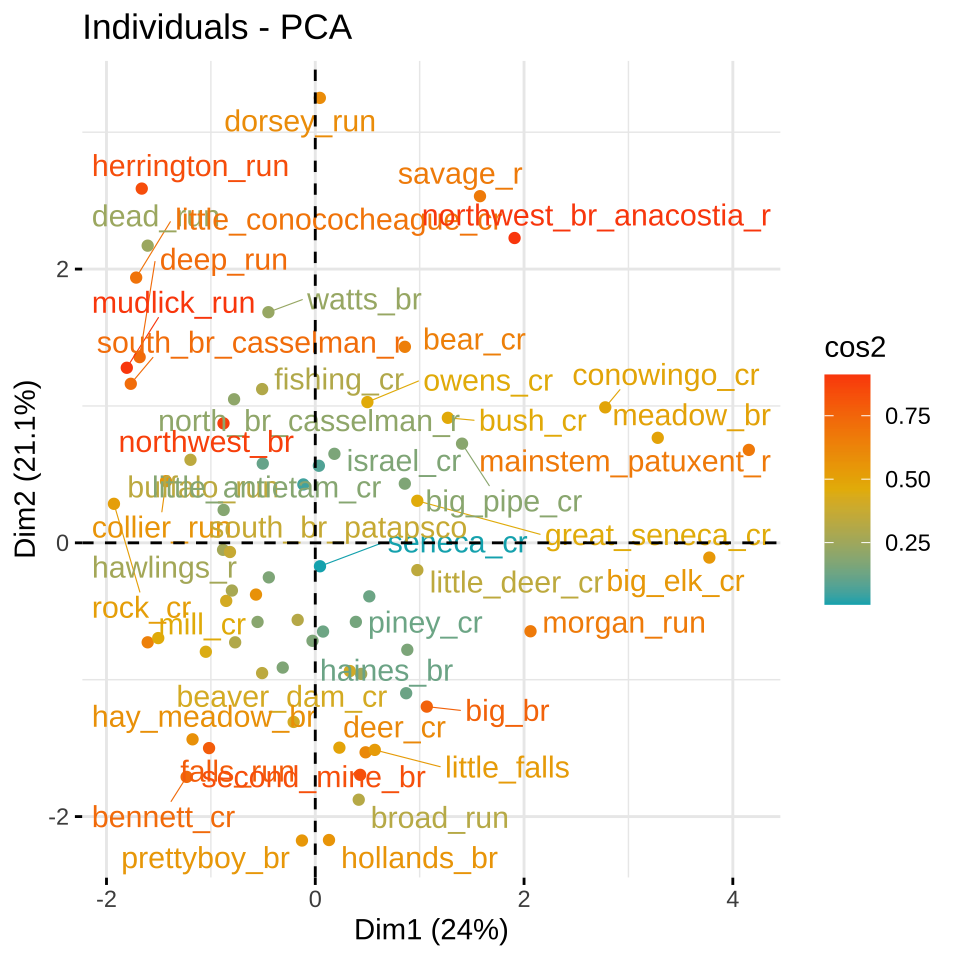
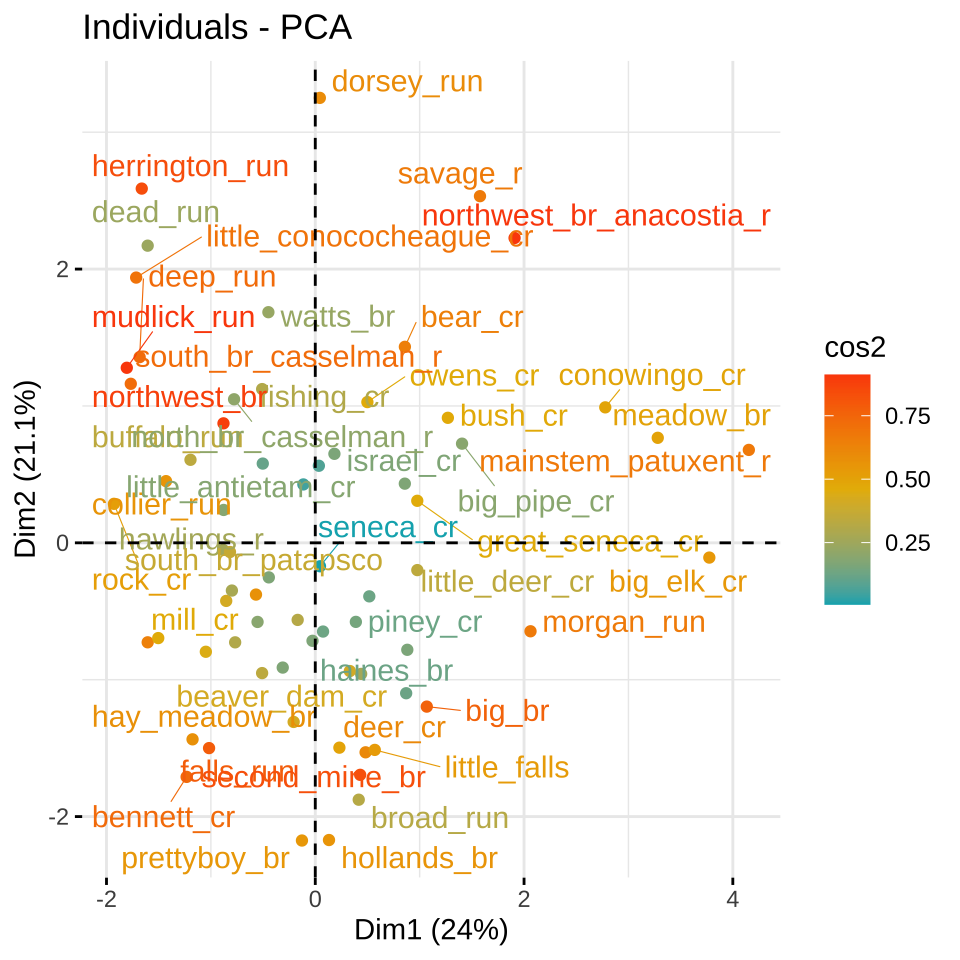
mds without text

diff --git a/docs/stat-modeling-outlier.html b/docs/stat-modeling-outlier.html
@@ -535,7 +535,7 @@ code span.wa { color: #60a0b0; font-weight: bold; font-style: italic; } /* Warni
 </header><div class="cell">
 
 </div>
-<p><em>Version vom November 02, 2022 um 08:37:42</em></p>
+<p><em>Version vom November 02, 2022 um 09:23:28</em></p>
 <div class="quarto-figure quarto-figure-center">
 <figure class="figure"><p><img src="images/caution.png" class="img-fluid figure-img" style="width:50.0%"></p>
 </figure>
@@ -1241,46 +1241,74 @@ Weitere R Quellen für die Principal Component Analysis
 <div class="cell">
 <div class="sourceCode" id="cb30"><pre class="downlit sourceCode r code-with-copy"><code class="sourceCode R"><span><span class="va">distance_tbl</span> <span class="op">&lt;-</span> <span class="fu">read_excel</span><span class="op">(</span><span class="st">"data/distance.xlsx"</span><span class="op">)</span></span>
 <span></span>
-<span><span class="va">mds</span> <span class="op">&lt;-</span> <span class="va">distance_tbl</span> <span class="op">%&gt;%</span></span>
+<span><span class="va">distance_tbl</span><span class="op">[</span><span class="fl">1</span><span class="op">:</span><span class="fl">5</span>, <span class="fl">1</span><span class="op">:</span><span class="fl">5</span><span class="op">]</span></span></code><button title="In die Zwischenablage kopieren" class="code-copy-button"><i class="bi"></i></button></pre></div>
+<div class="cell-output cell-output-stdout">
+<pre><code># A tibble: 5 × 5
+  distance  Amsterdam Antwerp Athens Barcelona
+  &lt;chr&gt;         &lt;dbl&gt;   &lt;dbl&gt;  &lt;dbl&gt;     &lt;dbl&gt;
+1 Amsterdam         0     160   3082      1639
+2 Antwerp         160       0   2766      1465
+3 Athens         3082    2766      0      3312
+4 Barcelona      1639    1465   3312         0
+5 Berlin          649     723   2552      1899</code></pre>
+</div>
+</div>
+<div class="cell">
+<div class="sourceCode" id="cb32"><pre class="downlit sourceCode r code-with-copy"><code class="sourceCode R"><span><span class="va">mds</span> <span class="op">&lt;-</span> <span class="va">distance_tbl</span> <span class="op">%&gt;%</span></span>
 <span>  <span class="fu">select</span><span class="op">(</span><span class="op">-</span><span class="va">distance</span><span class="op">)</span> <span class="op">%&gt;%</span> </span>
 <span>  <span class="fu"><a href="https://rdrr.io/r/stats/dist.html">as.dist</a></span><span class="op">(</span><span class="op">)</span> <span class="op">%&gt;%</span>          </span>
 <span>  <span class="fu"><a href="https://rdrr.io/r/stats/cmdscale.html">cmdscale</a></span><span class="op">(</span>k <span class="op">=</span> <span class="fl">2</span><span class="op">)</span> <span class="op">%&gt;%</span></span>
 <span>  <span class="fu">as_tibble</span><span class="op">(</span><span class="op">)</span> <span class="op">%&gt;%</span> </span>
 <span>  <span class="fu">mutate</span><span class="op">(</span>V1 <span class="op">=</span> <span class="op">-</span><span class="va">V1</span>,</span>
 <span>         V2 <span class="op">=</span> <span class="op">-</span><span class="va">V2</span><span class="op">)</span></span>
-<span><span class="fu"><a href="https://rdrr.io/r/base/colnames.html">colnames</a></span><span class="op">(</span><span class="va">mds</span><span class="op">)</span> <span class="op">&lt;-</span> <span class="fu"><a href="https://rdrr.io/r/base/c.html">c</a></span><span class="op">(</span><span class="st">"Dim.1"</span>, <span class="st">"Dim.2"</span><span class="op">)</span></span>
-<span></span>
-<span><span class="co"># Plot MDS</span></span>
-<span><span class="fu">ggscatter</span><span class="op">(</span><span class="va">mds</span>, x <span class="op">=</span> <span class="st">"Dim.1"</span>, y <span class="op">=</span> <span class="st">"Dim.2"</span>, </span>
-<span>          label <span class="op">=</span> <span class="fu"><a href="https://rdrr.io/r/base/names.html">names</a></span><span class="op">(</span><span class="va">distance_tbl</span><span class="op">)</span><span class="op">[</span><span class="op">-</span><span class="fl">1</span><span class="op">]</span>,</span>
+<span><span class="fu"><a href="https://rdrr.io/r/base/colnames.html">colnames</a></span><span class="op">(</span><span class="va">mds</span><span class="op">)</span> <span class="op">&lt;-</span> <span class="fu"><a href="https://rdrr.io/r/base/c.html">c</a></span><span class="op">(</span><span class="st">"Dim.1"</span>, <span class="st">"Dim.2"</span><span class="op">)</span></span></code><button title="In die Zwischenablage kopieren" class="code-copy-button"><i class="bi"></i></button></pre></div>
+</div>
+<div class="cell" data-layout-align="center">
+<div class="sourceCode" id="cb33"><pre class="downlit sourceCode r code-with-copy"><code class="sourceCode R"><span><span class="fu">ggscatter</span><span class="op">(</span><span class="va">mds</span>, x <span class="op">=</span> <span class="st">"Dim.1"</span>, y <span class="op">=</span> <span class="st">"Dim.2"</span>, </span>
+<span>          label <span class="op">=</span> <span class="va">distance_tbl</span><span class="op">$</span><span class="va">distance</span>,</span>
 <span>          size <span class="op">=</span> <span class="fl">1</span>,</span>
 <span>          repel <span class="op">=</span> <span class="cn">TRUE</span><span class="op">)</span></span></code><button title="In die Zwischenablage kopieren" class="code-copy-button"><i class="bi"></i></button></pre></div>
 <div class="cell-output-display">
-<p><img src="stat-modeling-outlier_files/figure-html/unnamed-chunk-27-1.png" class="img-fluid" width="672"></p>
+<div id="fig-mds-1" class="quarto-figure quarto-figure-center anchored">
+<figure class="figure"><p><img src="stat-modeling-outlier_files/figure-html/fig-mds-1-1.png" class="img-fluid figure-img" width="480"></p>
+<p></p><figcaption aria-hidden="true" class="figure-caption">Abbildung 36.7— .</figcaption><p></p>
+</figure>
+</div>
 </div>
 </div>
 <div class="cell">
-<div class="sourceCode" id="cb31"><pre class="downlit sourceCode r code-with-copy"><code class="sourceCode R"><span><span class="co"># Cmpute MDS</span></span>
-<span><span class="va">mds</span> <span class="op">&lt;-</span> <span class="va">gummi_tbl</span> <span class="op">%&gt;%</span></span>
+<div class="sourceCode" id="cb34"><pre class="downlit sourceCode r code-with-copy"><code class="sourceCode R"><span><span class="va">mds</span> <span class="op">&lt;-</span> <span class="va">gummi_tbl</span> <span class="op">%&gt;%</span></span>
 <span>  <span class="fu"><a href="https://rdrr.io/r/stats/dist.html">dist</a></span><span class="op">(</span><span class="op">)</span> <span class="op">%&gt;%</span>          </span>
 <span>  <span class="fu"><a href="https://rdrr.io/r/stats/cmdscale.html">cmdscale</a></span><span class="op">(</span><span class="op">)</span> <span class="op">%&gt;%</span></span>
-<span>  <span class="fu">as_tibble</span><span class="op">(</span><span class="op">)</span></span>
-<span><span class="fu"><a href="https://rdrr.io/r/base/colnames.html">colnames</a></span><span class="op">(</span><span class="va">mds</span><span class="op">)</span> <span class="op">&lt;-</span> <span class="fu"><a href="https://rdrr.io/r/base/c.html">c</a></span><span class="op">(</span><span class="st">"Dim.1"</span>, <span class="st">"Dim.2"</span><span class="op">)</span></span>
-<span><span class="co"># Plot MDS</span></span>
-<span><span class="fu">ggscatter</span><span class="op">(</span><span class="va">mds</span>, x <span class="op">=</span> <span class="st">"Dim.1"</span>, y <span class="op">=</span> <span class="st">"Dim.2"</span>, </span>
+<span>  <span class="fu">as_tibble</span><span class="op">(</span><span class="op">)</span> <span class="op">%&gt;%</span> </span>
+<span>  <span class="fu">set_names</span><span class="op">(</span><span class="fu"><a href="https://rdrr.io/r/base/c.html">c</a></span><span class="op">(</span><span class="st">"Dim.1"</span>, <span class="st">"Dim.2"</span><span class="op">)</span><span class="op">)</span></span></code><button title="In die Zwischenablage kopieren" class="code-copy-button"><i class="bi"></i></button></pre></div>
+</div>
+<div class="cell" data-layout-align="center">
+<div class="sourceCode" id="cb35"><pre class="downlit sourceCode r code-with-copy"><code class="sourceCode R"><span><span class="fu">ggscatter</span><span class="op">(</span><span class="va">mds</span>, x <span class="op">=</span> <span class="st">"Dim.1"</span>, y <span class="op">=</span> <span class="st">"Dim.2"</span>, </span>
 <span>          label <span class="op">=</span> <span class="fu"><a href="https://rdrr.io/r/base/colnames.html">rownames</a></span><span class="op">(</span><span class="va">gummi_tbl</span><span class="op">)</span>,</span>
 <span>          size <span class="op">=</span> <span class="fl">1</span>,</span>
 <span>          repel <span class="op">=</span> <span class="cn">TRUE</span><span class="op">)</span></span></code><button title="In die Zwischenablage kopieren" class="code-copy-button"><i class="bi"></i></button></pre></div>
 <div class="cell-output-display">
-<p><img src="stat-modeling-outlier_files/figure-html/unnamed-chunk-28-1.png" class="img-fluid" width="672"></p>
+<div id="fig-mds-2" class="quarto-figure quarto-figure-center anchored">
+<figure class="figure"><p><img src="stat-modeling-outlier_files/figure-html/fig-mds-2-1.png" class="img-fluid figure-img" width="480"></p>
+<p></p><figcaption aria-hidden="true" class="figure-caption">Abbildung 36.8— .</figcaption><p></p>
+</figure>
 </div>
-<div class="sourceCode" id="cb32"><pre class="downlit sourceCode r code-with-copy"><code class="sourceCode R"><span><span class="co"># K-means clustering</span></span>
-<span><span class="va">clust</span> <span class="op">&lt;-</span> <span class="fu"><a href="https://rdrr.io/r/stats/kmeans.html">kmeans</a></span><span class="op">(</span><span class="va">mds</span>, <span class="fl">5</span><span class="op">)</span><span class="op">$</span><span class="va">cluster</span> <span class="op">%&gt;%</span></span>
-<span>  <span class="fu"><a href="https://rdrr.io/r/base/factor.html">as.factor</a></span><span class="op">(</span><span class="op">)</span></span>
-<span><span class="va">mds</span> <span class="op">&lt;-</span> <span class="va">mds</span> <span class="op">%&gt;%</span></span>
-<span>  <span class="fu">mutate</span><span class="op">(</span>groups <span class="op">=</span> <span class="va">clust</span><span class="op">)</span></span>
-<span><span class="co"># Plot and color by groups</span></span>
-<span><span class="fu">ggscatter</span><span class="op">(</span><span class="va">mds</span>, x <span class="op">=</span> <span class="st">"Dim.1"</span>, y <span class="op">=</span> <span class="st">"Dim.2"</span>, </span>
+</div>
+</div>
+<p><a href="classification-knn.html"><span>Kapitel&nbsp;46</span></a></p>
+<div class="cell">
+<div class="sourceCode" id="cb36"><pre class="downlit sourceCode r code-with-copy"><code class="sourceCode R"><span><span class="co"># K-means clustering</span></span>
+<span><span class="va">clust</span> <span class="op">&lt;-</span> <span class="fu"><a href="https://rdrr.io/r/stats/kmeans.html">kmeans</a></span><span class="op">(</span><span class="va">mds</span>, <span class="fl">5</span><span class="op">)</span> <span class="op">%&gt;%</span></span>
+<span>  <span class="fu">pluck</span><span class="op">(</span><span class="st">"cluster"</span><span class="op">)</span> <span class="op">%&gt;%</span> </span>
+<span>  <span class="fu"><a href="https://rdrr.io/r/base/factor.html">as.factor</a></span><span class="op">(</span><span class="op">)</span></span></code><button title="In die Zwischenablage kopieren" class="code-copy-button"><i class="bi"></i></button></pre></div>
+</div>
+<div class="cell">
+<div class="sourceCode" id="cb37"><pre class="downlit sourceCode r code-with-copy"><code class="sourceCode R"><span><span class="va">mds</span> <span class="op">&lt;-</span> <span class="va">mds</span> <span class="op">%&gt;%</span></span>
+<span>  <span class="fu">mutate</span><span class="op">(</span>groups <span class="op">=</span> <span class="va">clust</span><span class="op">)</span></span></code><button title="In die Zwischenablage kopieren" class="code-copy-button"><i class="bi"></i></button></pre></div>
+</div>
+<div class="cell" data-layout-align="center">
+<div class="sourceCode" id="cb38"><pre class="downlit sourceCode r code-with-copy"><code class="sourceCode R"><span><span class="fu">ggscatter</span><span class="op">(</span><span class="va">mds</span>, x <span class="op">=</span> <span class="st">"Dim.1"</span>, y <span class="op">=</span> <span class="st">"Dim.2"</span>, </span>
 <span>          label <span class="op">=</span> <span class="fu"><a href="https://rdrr.io/r/base/colnames.html">rownames</a></span><span class="op">(</span><span class="va">gummi_tbl</span><span class="op">)</span>,</span>
 <span>          color <span class="op">=</span> <span class="st">"groups"</span>,</span>
 <span>          palette <span class="op">=</span> <span class="st">"jco"</span>,</span>
@@ -1289,7 +1317,11 @@ Weitere R Quellen für die Principal Component Analysis
 <span>          ellipse.type <span class="op">=</span> <span class="st">"convex"</span>,</span>
 <span>          repel <span class="op">=</span> <span class="cn">TRUE</span><span class="op">)</span></span></code><button title="In die Zwischenablage kopieren" class="code-copy-button"><i class="bi"></i></button></pre></div>
 <div class="cell-output-display">
-<p><img src="stat-modeling-outlier_files/figure-html/unnamed-chunk-28-2.png" class="img-fluid" width="672"></p>
+<div id="fig-mds-3" class="quarto-figure quarto-figure-center anchored">
+<figure class="figure"><p><img src="stat-modeling-outlier_files/figure-html/fig-mds-3-1.png" class="img-fluid figure-img" width="480"></p>
+<p></p><figcaption aria-hidden="true" class="figure-caption">Abbildung 36.9— .</figcaption><p></p>
+</figure>
+</div>
 </div>
 </div>
 

diff --git a/docs/classification-knn.html b/docs/classification-knn.html
@@ -4,7 +4,7 @@
 <meta charset="utf-8">
 <meta name="generator" content="quarto-0.9.629">
 <meta name="viewport" content="width=device-width, initial-scale=1.0, user-scalable=yes">
-<title>Skript Bio Data Science - 45&nbsp; \(k\) nearest neighbor</title>
+<title>Skript Bio Data Science - 46&nbsp; \(k\) nearest neighbor</title>
 <style>
 code{white-space: pre-wrap;}
 span.smallcaps{font-variant: small-caps;}
@@ -55,7 +55,7 @@ ul.task-list{list-style: none;}
 
 <div id="quarto-search-results"></div>
   <header id="quarto-header" class="headroom fixed-top"><nav class="quarto-secondary-nav" data-bs-toggle="collapse" data-bs-target="#quarto-sidebar" aria-controls="quarto-sidebar" aria-expanded="false" aria-label="Toggle sidebar navigation" onclick="if (window.quartoToggleHeadroom) { window.quartoToggleHeadroom(); }"><div class="container-fluid d-flex justify-content-between">
-      <h1 class="quarto-secondary-nav-title"><span class="chapter-number">45</span>&nbsp; <span class="chapter-title"><span class="math inline">\(k\)</span> nearest neighbor</span></h1>
+      <h1 class="quarto-secondary-nav-title"><span class="chapter-number">46</span>&nbsp; <span class="chapter-title"><span class="math inline">\(k\)</span> nearest neighbor</span></h1>
       <button type="button" class="quarto-btn-toggle btn" aria-label="Show secondary navigation">
         <i class="bi bi-chevron-right"></i>
       </button>
@@ -324,27 +324,32 @@ ul.task-list{list-style: none;}
 </li>
         <li class="sidebar-item">
   <div class="sidebar-item-container"> 
-  <a href="./stat-modeling-gaussian.html" class="sidebar-item-text sidebar-link"><span class="chapter-number">38</span>&nbsp; <span class="chapter-title">Gaussian lineare Regression</span></a>
+  <a href="./stat-modeling-sensitivity.html" class="sidebar-item-text sidebar-link"><span class="chapter-number">38</span>&nbsp; <span class="chapter-title">Sensitivitätsanalyse</span></a>
   </div>
 </li>
         <li class="sidebar-item">
   <div class="sidebar-item-container"> 
-  <a href="./stat-modeling-logistic.html" class="sidebar-item-text sidebar-link"><span class="chapter-number">39</span>&nbsp; <span class="chapter-title">Logistische Regression</span></a>
+  <a href="./stat-modeling-gaussian.html" class="sidebar-item-text sidebar-link"><span class="chapter-number">39</span>&nbsp; <span class="chapter-title">Gaussian Regression</span></a>
   </div>
 </li>
         <li class="sidebar-item">
   <div class="sidebar-item-container"> 
-  <a href="./stat-modeling-poisson.html" class="sidebar-item-text sidebar-link"><span class="chapter-number">40</span>&nbsp; <span class="chapter-title">Poisson Regression</span></a>
+  <a href="./stat-modeling-logistic.html" class="sidebar-item-text sidebar-link"><span class="chapter-number">40</span>&nbsp; <span class="chapter-title">Logistische Regression</span></a>
   </div>
 </li>
         <li class="sidebar-item">
   <div class="sidebar-item-container"> 
-  <a href="./stat-modeling-mixed.html" class="sidebar-item-text sidebar-link"><span class="chapter-number">41</span>&nbsp; <span class="chapter-title">Lineare gemischte Modelle</span></a>
+  <a href="./stat-modeling-poisson.html" class="sidebar-item-text sidebar-link"><span class="chapter-number">41</span>&nbsp; <span class="chapter-title">Poisson Regression</span></a>
   </div>
 </li>
         <li class="sidebar-item">
   <div class="sidebar-item-container"> 
-  <a href="./stat-modeling-non-linear.html" class="sidebar-item-text sidebar-link"><span class="chapter-number">42</span>&nbsp; <span class="chapter-title">Nicht lineare Regression</span></a>
+  <a href="./stat-modeling-mixed.html" class="sidebar-item-text sidebar-link"><span class="chapter-number">42</span>&nbsp; <span class="chapter-title">Lineare gemischte Modelle</span></a>
+  </div>
+</li>
+        <li class="sidebar-item">
+  <div class="sidebar-item-container"> 
+  <a href="./stat-modeling-non-linear.html" class="sidebar-item-text sidebar-link"><span class="chapter-number">43</span>&nbsp; <span class="chapter-title">Nicht lineare Regression</span></a>
   </div>
 </li>
     </ul>
@@ -359,7 +364,7 @@ ul.task-list{list-style: none;}
     <ul id="quarto-sidebar-section-7" class="collapse list-unstyled sidebar-section depth1 show">
 <li class="sidebar-item">
   <div class="sidebar-item-container"> 
-  <a href="./experimentel-design-basic.html" class="sidebar-item-text sidebar-link"><span class="chapter-number">43</span>&nbsp; <span class="chapter-title">Grundlagen der Versuchsplanung</span></a>
+  <a href="./experimentel-design-basic.html" class="sidebar-item-text sidebar-link"><span class="chapter-number">44</span>&nbsp; <span class="chapter-title">Grundlagen der Versuchsplanung</span></a>
   </div>
 </li>
     </ul>
@@ -374,22 +379,22 @@ ul.task-list{list-style: none;}
     <ul id="quarto-sidebar-section-8" class="collapse list-unstyled sidebar-section depth1 show">
 <li class="sidebar-item">
   <div class="sidebar-item-container"> 
-  <a href="./classification-basic.html" class="sidebar-item-text sidebar-link"><span class="chapter-number">44</span>&nbsp; <span class="chapter-title">Grundlagen der Klassifikation</span></a>
+  <a href="./classification-basic.html" class="sidebar-item-text sidebar-link"><span class="chapter-number">45</span>&nbsp; <span class="chapter-title">Grundlagen der Klassifikation</span></a>
   </div>
 </li>
         <li class="sidebar-item">
   <div class="sidebar-item-container"> 
-  <a href="./classification-knn.html" class="sidebar-item-text sidebar-link active"><span class="chapter-number">45</span>&nbsp; <span class="chapter-title"><span class="math inline">\(k\)</span> nearest neighbor</span></a>
+  <a href="./classification-knn.html" class="sidebar-item-text sidebar-link active"><span class="chapter-number">46</span>&nbsp; <span class="chapter-title"><span class="math inline">\(k\)</span> nearest neighbor</span></a>
   </div>
 </li>
         <li class="sidebar-item">
   <div class="sidebar-item-container"> 
-  <a href="./classification-randomforest.html" class="sidebar-item-text sidebar-link"><span class="chapter-number">46</span>&nbsp; <span class="chapter-title">Random Forest</span></a>
+  <a href="./classification-randomforest.html" class="sidebar-item-text sidebar-link"><span class="chapter-number">47</span>&nbsp; <span class="chapter-title">Random Forest</span></a>
   </div>
 </li>
         <li class="sidebar-item">
   <div class="sidebar-item-container"> 
-  <a href="./classification-model-compare.html" class="sidebar-item-text sidebar-link"><span class="chapter-number">47</span>&nbsp; <span class="chapter-title">Vergleich von Algorithmen</span></a>
+  <a href="./classification-model-compare.html" class="sidebar-item-text sidebar-link"><span class="chapter-number">48</span>&nbsp; <span class="chapter-title">Vergleich von Algorithmen</span></a>
   </div>
 </li>
     </ul>
@@ -422,6 +427,11 @@ ul.task-list{list-style: none;}
   <a href="./app-lectures-semester.html" class="sidebar-item-text sidebar-link"><span class="chapter-number">D</span>&nbsp; <span class="chapter-title">Logbuch</span></a>
   </div>
 </li>
+        <li class="sidebar-item">
+  <div class="sidebar-item-container"> 
+  <a href="./app-bewertungsbogen.html" class="sidebar-item-text sidebar-link"><span class="chapter-number">E</span>&nbsp; <span class="chapter-title">Bewertungsbogen</span></a>
+  </div>
+</li>
     </ul>
 </li>
     </ul>
@@ -431,7 +441,7 @@ ul.task-list{list-style: none;}
     </div>
 <!-- main -->
 <main class="content" id="quarto-document-content"><header id="title-block-header" class="quarto-title-block default"><div class="quarto-title">
-<h1 class="title"><span id="sec-class-model-compare" class="quarto-section-identifier d-none d-lg-block"><span class="chapter-number">45</span>&nbsp; <span class="chapter-title"><span class="math inline">\(k\)</span> nearest neighbor</span></span></h1>
+<h1 class="title"><span id="sec-knn" class="quarto-section-identifier d-none d-lg-block"><span class="chapter-number">46</span>&nbsp; <span class="chapter-title"><span class="math inline">\(k\)</span> nearest neighbor</span></span></h1>
 </div>
 
 
@@ -446,7 +456,7 @@ ul.task-list{list-style: none;}
 </header><div class="cell">
 
 </div>
-<p><em>Version vom October 25, 2022 um 11:46:33</em></p>
+<p><em>Version vom November 02, 2022 um 09:21:50</em></p>
 <div class="quarto-figure quarto-figure-center">
 <figure class="figure"><p><img src="images/caution.png" class="img-fluid figure-img" style="width:50.0%"></p>
 </figure>
@@ -534,12 +544,12 @@ window.document.addEventListener("DOMContentLoaded", function (event) {
 });
 </script><nav class="page-navigation"><div class="nav-page nav-page-previous">
       <a href="./classification-basic.html" class="pagination-link">
-        <i class="bi bi-arrow-left-short"></i> <span class="nav-page-text"><span class="chapter-number">44</span>&nbsp; <span class="chapter-title">Grundlagen der Klassifikation</span></span>
+        <i class="bi bi-arrow-left-short"></i> <span class="nav-page-text"><span class="chapter-number">45</span>&nbsp; <span class="chapter-title">Grundlagen der Klassifikation</span></span>
       </a>          
   </div>
   <div class="nav-page nav-page-next">
       <a href="./classification-randomforest.html" class="pagination-link">
-        <span class="nav-page-text"><span class="chapter-number">46</span>&nbsp; <span class="chapter-title">Random Forest</span></span> <i class="bi bi-arrow-right-short"></i>
+        <span class="nav-page-text"><span class="chapter-number">47</span>&nbsp; <span class="chapter-title">Random Forest</span></span> <i class="bi bi-arrow-right-short"></i>
       </a>
   </div>
 </nav>
